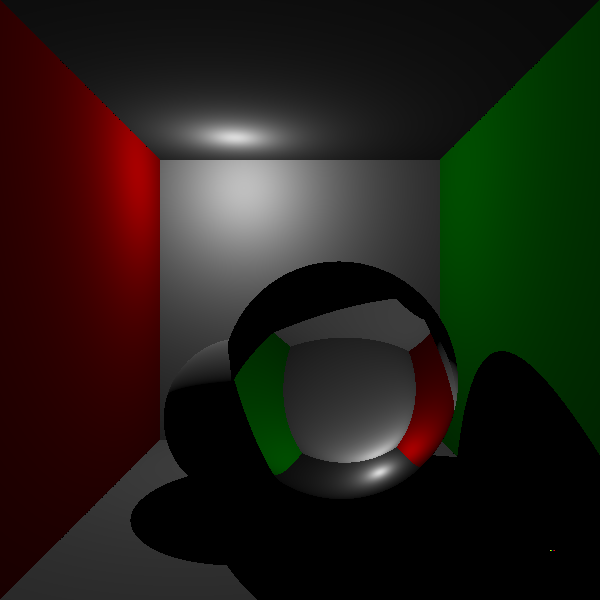
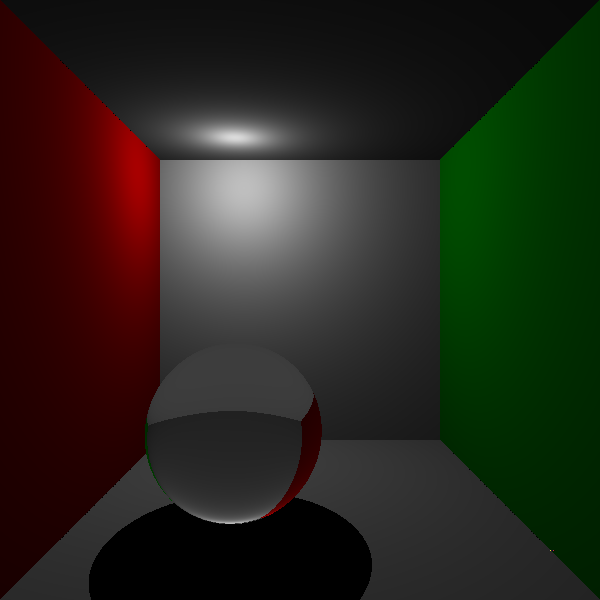
glass material working

Changed region(s): [[0.15, 0.42, 1.0, 1.0]]

diff --git a/Main.py b/Main.py
@@ -37,12 +37,14 @@ def main():
 	#important! This is a right handed coordinate system!
 	sphere01 = Sphere(Vector(-15,-30,-136),20,material=whiteLambert)
 	sphere02 = Sphere(Vector(10,-20,-136),30,material=glass)
+	sphere03 = Sphere(Vector(-15,-30,-120),20,material=glass)
 	#plane01 = Plane(Vector(0,-50,-136),Vector(0,1,0),material=whiteLambert) #bottom wall
 	#plane02 = Plane(Vector(-50,0,-136),Vector(1,0,0),material=redLambert) #left wall
 	#plane03 = Plane(Vector(0,0,-186),Vector(0,0,1),material=whiteLambert) #back wall
 	#plane04 = Plane(Vector(50,0,-136),Vector(-1,0,0),material=greenLambert) #right wall
 	#plane05 = Plane(Vector(0,50,-136),Vector(0,-1,0),material=whiteLambert) #top wall
-	#tri01 = Triangle(Vector(0,40,-136),Vector(-20,20,-136),Vector(20,20,-156),material=mirror)
+	tri01 = Triangle(Vector(30,40,-136),Vector(-10,20,-136),Vector(50,20,-156),material=glass)
+	tri02 = Triangle(Vector(30,40,-146),Vector(50,20,-166),Vector(-10,20,-146),material=glass)
 	quad01 = Quad(Vector(-50,-50,-186),Vector(-50,-50,-76),Vector(50,-50,-76),Vector(50,-50,-186),material=whiteLambert) #bottom wall
 	quad02 = Quad(Vector(-50,50,-76),Vector(-50,-50,-76),Vector(-50,-50,-186),Vector(-50,50,-186),material=redLambert) #left wall
 	quad03 = Quad(Vector(-50,50,-186),Vector(-50,-50,-186),Vector(50,-50,-186),Vector(50,50,-186),material=whiteLambert)  #back wall
@@ -53,7 +55,7 @@ def main():
 	light02 = PointLight(Vector(-20,40,-160))
 	light03 = PointLight(Vector(20,30,-90))
 
-	newScene = Scene({"geometry":[sphere01,sphere02,quad01,quad02,quad03,quad04,quad05],"light":[light02]})
+	newScene = Scene({"geometry":[quad01,quad02,quad03,quad04,quad05,sphere03],"light":[light02]})
 
 	cam = Camera(Vector(0,0,0),Vector(0,0,1),60)
 

diff --git a/RenderProcess.py b/RenderProcess.py
@@ -144,8 +144,13 @@ class RenderProcess(multiprocessing.Process):
 			refractRayDir = (hitResult[2]*(-1)).rot("A",refractAngle,rotAxis)
 		elif incomingCos > -1 and incomingCos < 0:
 			#When ray is leaving the medium
-			refractAngle = math.asin(ior*math.sqrt(1-math.pow(incomingCos,2)))
-			refractRayDir = hitResult[2].rot("A",-refractAngle,rotAxis)
+			refractAngleMultIor = math.sqrt(1-math.pow(incomingCos,2))*ior
+			if refractAngleMultIor  > 1:
+				#Critical angle, total internal reflection
+				refractRayDir = incomingVec.rot("A",math.radians(180),hitResult[2])
+			else:
+				refractAngle = math.asin(refractAngleMultIor)
+				refractRayDir = hitResult[2].rot("A",-refractAngle,rotAxis)
 		else:
 			#incoming ray is perpendicular to the surface
 			refractRayDir = incomingVec * (-1)

diff --git a/Geo/Material.py b/Geo/Material.py
@@ -3,7 +3,7 @@ from Geo.Vector import Vector
 class Material:
     def __init__(self,diffuseColor=Vector(0.18,0.18,0.18),diffuseWeight = 1.0,
                 reflectionColor=Vector(1,1,1),reflectionWeight = 0,reflectionRoughness=0,
-                refractionColor=Vector(1,1,1),refractionWeight = 0,refractionIndex=15,
+                refractionColor=Vector(1,1,1),refractionWeight = 0,refractionIndex=1.5,
                 emissionColor=Vector(1,1,1),emissionAmount=0):
         #Default material values
         self.diffuseColor = diffuseColor

diff --git a/Geo/Plane.py b/Geo/Plane.py
@@ -1,4 +1,4 @@
-import math
+# import math
 from Geo.Geometry import Geometry
 from Geo.Material import Material
 from Geo.Vector import Vector
